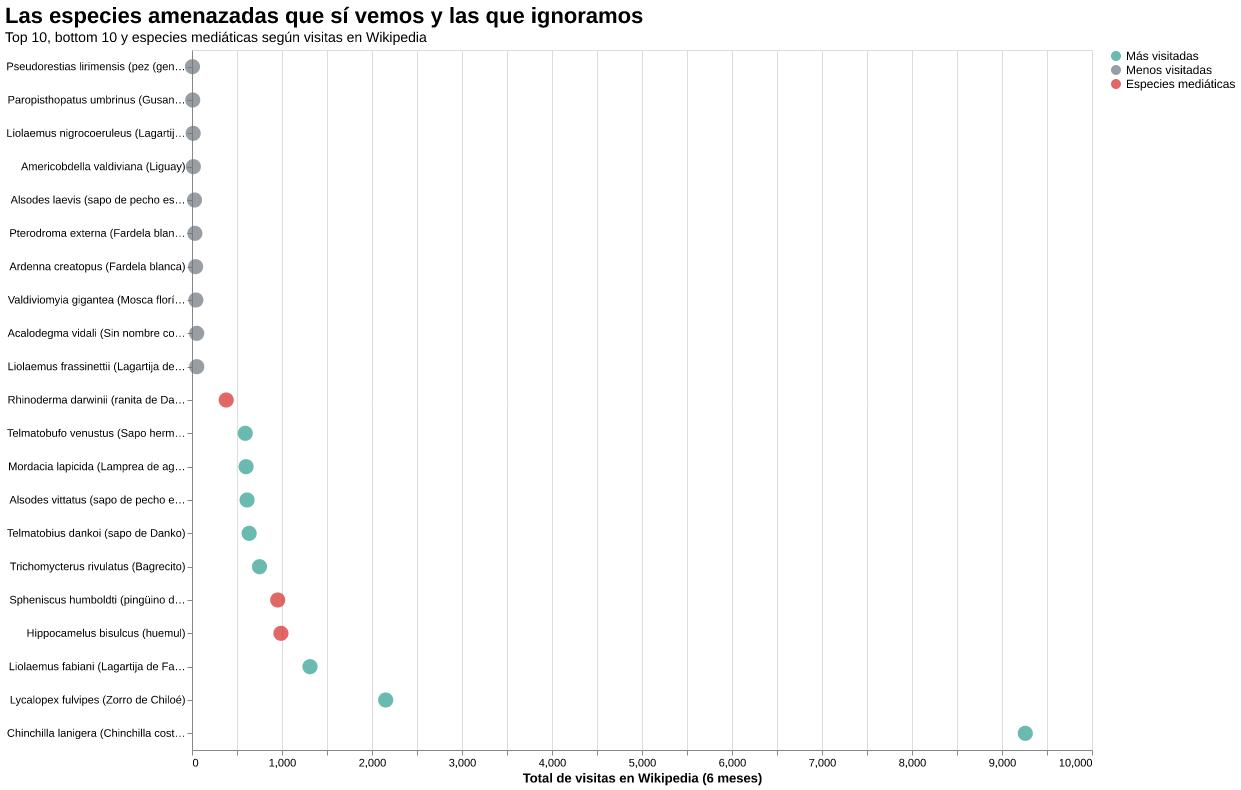
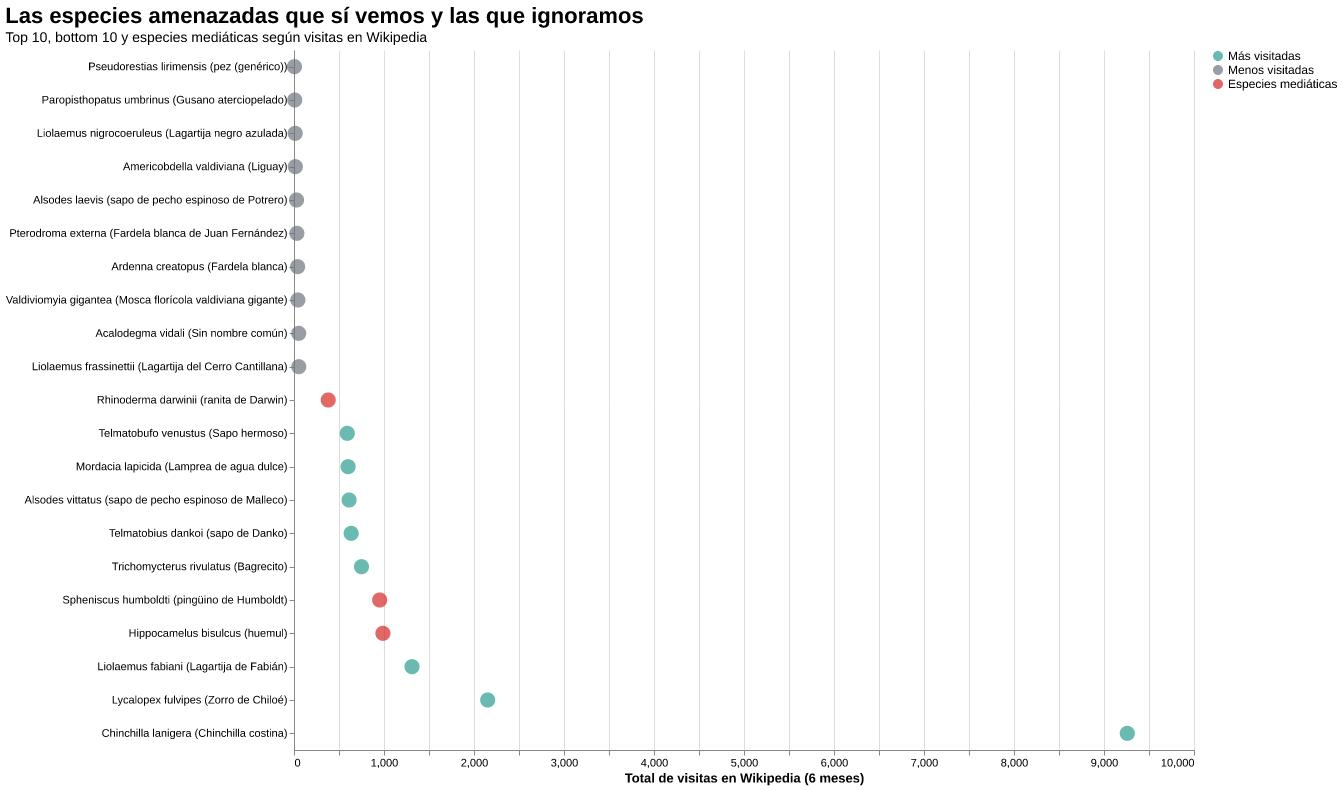
up02

diff --git a/Entrega  03/Bravo_Virginia_especies_vistas_e_ignoradas_vis_02/Visualización/vis_02.html b/Entrega  03/Bravo_Virginia_especies_vistas_e_ignoradas_vis_02/Visualización/vis_02.html
@@ -21,7 +21,7 @@
   <div id="vis"></div>
   <script>
     (function(vegaEmbed) {
-      var spec = {"config": {"view": {"continuousWidth": 300, "continuousHeight": 300}, "axis": {"labelFontSize": 11, "titleFontSize": 13}, "legend": {"labelFontSize": 12, "titleFontSize": 13}, "title": {"anchor": "start", "fontSize": 22, "subtitleFontSize": 14}}, "data": {"name": "data-77d739e10a1b5b13286e51d5c244d3fd"}, "mark": {"type": "circle", "size": 230}, "encoding": {"color": {"field": "Grupo", "scale": {"domain": ["M\u00e1s visitadas", "Menos visitadas", "Especies medi\u00e1ticas"], "range": ["#2a9d8f", "#6c757d", "#d62828"]}, "title": "", "type": "nominal"}, "tooltip": [{"field": "Nombre Cient\u00edfico", "title": "Nombre cient\u00edfico", "type": "nominal"}, {"field": "Nombre Com\u00fan", "title": "Nombre com\u00fan", "type": "nominal"}, {"field": "Clase", "title": "Clase", "type": "nominal"}, {"field": "RCE", "title": "Categor\u00eda", "type": "nominal"}, {"field": "Total Visitas (periodo seis meses)", "title": "Visitas", "type": "quantitative"}], "x": {"field": "Total Visitas (periodo seis meses)", "title": "Total de visitas en Wikipedia (6 meses)", "type": "quantitative"}, "y": {"field": "Etiqueta", "sort": ["Pseudorestias lirimensis (pez (gen\u00e9rico))", "Paropisthopatus umbrinus (Gusano aterciopelado)", "Liolaemus nigrocoeruleus (Lagartija negro azulada)", "Americobdella valdiviana (Liguay)", "Alsodes laevis (sapo de pecho espinoso de Potrero)", "Pterodroma externa (Fardela blanca de Juan Fern\u00e1ndez)", "Ardenna creatopus (Fardela blanca)", "Valdiviomyia gigantea (Mosca flor\u00edcola valdiviana gigante)", "Acalodegma vidali (Sin nombre com\u00fan)", "Liolaemus frassinettii (Lagartija del Cerro Cantillana)", "Rhinoderma darwinii (ranita de Darwin)", "Telmatobufo venustus (Sapo hermoso)", "Mordacia lapicida (Lamprea de agua dulce)", "Alsodes vittatus (sapo de pecho espinoso de Malleco)", "Telmatobius dankoi (sapo de Danko)", "Trichomycterus rivulatus (Bagrecito)", "Spheniscus humboldti (ping\u00fcino de Humboldt)", "Hippocamelus bisulcus (huemul)", "Liolaemus fabiani (Lagartija de Fabi\u00e1n)", "Lycalopex fulvipes (Zorro de Chilo\u00e9)", "Chinchilla lanigera (Chinchilla costina)"], "title": "", "type": "nominal"}}, "height": 700, "title": {"text": "Las especies amenazadas que s\u00ed vemos y las que ignoramos", "subtitle": ["Top 10, bottom 10 y especies medi\u00e1ticas seg\u00fan visitas en Wikipedia"]}, "width": 900, "$schema": "https://vega.github.io/schema/vega-lite/v5.20.1.json", "datasets": {"data-77d739e10a1b5b13286e51d5c244d3fd": [{"ID": 112, "Nombre Cient\u00edfico": "Chinchilla lanigera", "Nombre Com\u00fan": "Chinchilla costina", "Clase": "Mammalia", "RCE": "EN", "Total Visitas (periodo seis meses)": 9259.0, "Promedio Diario": "51", "URL Fuente": "https://pageviews.wmcloud.org/?project=en.wikipedia.org&platform=all-access&agent=user&redirects=0&start=2025-09-25&end=2026-03-25&pages=Chinchilla_lanigera ", "Etiqueta": "Chinchilla lanigera (Chinchilla costina)", "Grupo": "M\u00e1s visitadas"}, {"ID": 167, "Nombre Cient\u00edfico": "Lycalopex fulvipes", "Nombre Com\u00fan": "Zorro de Chilo\u00e9", "Clase": "Mammalia", "RCE": "EN", "Total Visitas (periodo seis meses)": 2152.0, "Promedio Diario": "12", "URL Fuente": "https://pageviews.wmcloud.org/?project=en.wikipedia.org&platform=all-access&agent=user&redirects=0&start=2025-09-25&end=2026-03-25&pages=Lycalopex_fulvipes ", "Etiqueta": "Lycalopex fulvipes (Zorro de Chilo\u00e9)", "Grupo": "M\u00e1s visitadas"}, {"ID": 154, "Nombre Cient\u00edfico": "Liolaemus fabiani", "Nombre Com\u00fan": "Lagartija de Fabi\u00e1n", "Clase": "Reptilia", "RCE": "EN", "Total Visitas (periodo seis meses)": 1311.0, "Promedio Diario": "7", "URL Fuente": "https://pageviews.wmcloud.org/?project=en.wikipedia.org&platform=all-access&agent=user&redirects=0&start=2025-09-25&end=2026-03-25&pages=Liolaemus_fabiani ", "Etiqueta": "Liolaemus fabiani (Lagartija de Fabi\u00e1n)", "Grupo": "M\u00e1s visitadas"}, {"ID": 214, "Nombre Cient\u00edfico": "Hippocamelus bisulcus", "Nombre Com\u00fan": "huemul, taruca, w\u00fcmul, g\u00fcemul, shoan, shoen, trula, hueque, ciervo sur andino", "Clase": "Mammalia", "RCE": "EN", "Total Visitas (periodo seis meses)": 988.0, "Promedio Diario": "5", "URL Fuente": "https://pageviews.wmcloud.org/?project=en.wikipedia.org&platform=all-access&agent=user&redirects=0&start=2025-09-25&end=2026-03-25&pages=Hippocamelus_bisulcus ", "Etiqueta": "Hippocamelus bisulcus (huemul)", "Grupo": "Especies medi\u00e1ticas"}, {"ID": 216, "Nombre Cient\u00edfico": "Spheniscus humboldti", "Nombre Com\u00fan": "ping\u00fcino de Humboldt, ping\u00fcino, p\u00e1jaro ni\u00f1o, patranka, Humboldt Penguin (ingl\u00e9s), Peruvian penguin (ingl\u00e9s)", "Clase": "Aves", "RCE": "EN", "Total Visitas (periodo seis meses)": 952.0, "Promedio Diario": "5", "URL Fuente": "https://pageviews.wmcloud.org/?project=en.wikipedia.org&platform=all-access&agent=user&redirects=0&start=2025-09-25&end=2026-03-25&pages=Spheniscus_humboldti ", "Etiqueta": "Spheniscus humboldti (ping\u00fcino de Humboldt)", "Grupo": "Especies medi\u00e1ticas"}, {"ID": 210, "Nombre Cient\u00edfico": "Trichomycterus rivulatus", "Nombre Com\u00fan": "Bagrecito", "Clase": "Actinopterygii", "RCE": "EN", "Total Visitas (periodo seis meses)": 750.0, "Promedio Diario": "4", "URL Fuente": "https://pageviews.wmcloud.org/?project=en.wikipedia.org&platform=all-access&agent=user&redirects=0&start=2025-09-25&end=2026-03-25&pages=Trichomycterus_rivulatus ", "Etiqueta": "Trichomycterus rivulatus (Bagrecito)", "Grupo": "M\u00e1s visitadas"}, {"ID": 62, "Nombre Cient\u00edfico": "Telmatobius dankoi", "Nombre Com\u00fan": "sapo de Danko", "Clase": "Amphibia", "RCE": "CR", "Total Visitas (periodo seis meses)": 635.0, "Promedio Diario": "3", "URL Fuente": "https://pageviews.wmcloud.org/?project=en.wikipedia.org&platform=all-access&agent=user&redirects=0&start=2025-09-25&end=2026-03-25&pages=Telmatobius_dankoi", "Etiqueta": "Telmatobius dankoi (sapo de Danko)", "Grupo": "M\u00e1s visitadas"}, {"ID": 6, "Nombre Cient\u00edfico": "Alsodes vittatus", "Nombre Com\u00fan": "sapo de pecho espinoso de Malleco", "Clase": "Amphibia", "RCE": "CR", "Total Visitas (periodo seis meses)": 612.0, "Promedio Diario": "3", "URL Fuente": "https://pageviews.wmcloud.org/?project=en.wikipedia.org&platform=all-access&agent=user&redirects=0&start=2025-09-25&end=2026-03-25&pages=Alsodes_vittatus", "Etiqueta": "Alsodes vittatus (sapo de pecho espinoso de Malleco)", "Grupo": "M\u00e1s visitadas"}, {"ID": 169, "Nombre Cient\u00edfico": "Mordacia lapicida", "Nombre Com\u00fan": "Lamprea de agua dulce", "Clase": "Cephalaspidomorphi", "RCE": "EN", "Total Visitas (periodo seis meses)": 601.0, "Promedio Diario": "3", "URL Fuente": "https://pageviews.wmcloud.org/?project=en.wikipedia.org&platform=all-access&agent=user&redirects=0&start=2025-09-25&end=2026-03-25&pages=Mordacia_lapicida ", "Etiqueta": "Mordacia lapicida (Lamprea de agua dulce)", "Grupo": "M\u00e1s visitadas"}, {"ID": 205, "Nombre Cient\u00edfico": "Telmatobufo venustus", "Nombre Com\u00fan": "Sapo hermoso", "Clase": "Amphibia", "RCE": "EN", "Total Visitas (periodo seis meses)": 592.0, "Promedio Diario": "3", "URL Fuente": "https://pageviews.wmcloud.org/?project=en.wikipedia.org&platform=all-access&agent=user&redirects=0&start=2025-09-25&end=2026-03-25&pages=Telmatobufo_venustus ", "Etiqueta": "Telmatobufo venustus (Sapo hermoso)", "Grupo": "M\u00e1s visitadas"}, {"ID": 156, "Nombre Cient\u00edfico": "Liolaemus frassinettii", "Nombre Com\u00fan": "Lagartija del Cerro Cantillana, lagarto de Frassinetti", "Clase": "Reptilia", "RCE": "EN", "Total Visitas (periodo seis meses)": 53.0, "Promedio Diario": "0", "URL Fuente": "https://pageviews.wmcloud.org/?project=en.wikipedia.org&platform=all-access&agent=user&redirects=0&start=2025-09-25&end=2026-03-25&pages=Liolaemus_frassinettii ", "Etiqueta": "Liolaemus frassinettii (Lagartija del Cerro Cantillana)", "Grupo": "Menos visitadas"}, {"ID": 71, "Nombre Cient\u00edfico": "Acalodegma vidali", "Nombre Com\u00fan": null, "Clase": "Insecta", "RCE": "EN", "Total Visitas (periodo seis meses)": 52.0, "Promedio Diario": "0", "URL Fuente": "https://pageviews.wmcloud.org/?project=en.wikipedia.org&platform=all-access&agent=user&redirects=0&start=2025-09-25&end=2026-03-25&pages=Acalodegma_vidali ", "Etiqueta": "Acalodegma vidali (Sin nombre com\u00fan)", "Grupo": "Menos visitadas"}, {"ID": 212, "Nombre Cient\u00edfico": "Valdiviomyia gigantea", "Nombre Com\u00fan": "Mosca flor\u00edcola valdiviana gigante", "Clase": "Insecta", "RCE": "EN", "Total Visitas (periodo seis meses)": 43.0, "Promedio Diario": "0", "URL Fuente": "https://pageviews.wmcloud.org/?project=en.wikipedia.org&platform=all-access&agent=user&redirects=0&start=2025-09-25&end=2026-03-25&pages=Valdiviomyia_gigantea ", "Etiqueta": "Valdiviomyia gigantea (Mosca flor\u00edcola valdiviana gigante)", "Grupo": "Menos visitadas"}, {"ID": 100, "Nombre Cient\u00edfico": "Ardenna creatopus", "Nombre Com\u00fan": "Fardela blanca", "Clase": "Aves", "RCE": "EN", "Total Visitas (periodo seis meses)": 40.0, "Promedio Diario": "0", "URL Fuente": "https://pageviews.wmcloud.org/?project=en.wikipedia.org&platform=all-access&agent=user&redirects=0&start=2025-09-25&end=2026-03-25&pages=Ardenna_creatopus ", "Etiqueta": "Ardenna creatopus (Fardela blanca)", "Grupo": "Menos visitadas"}, {"ID": 193, "Nombre Cient\u00edfico": "Pterodroma externa", "Nombre Com\u00fan": "Fardela blanca de Juan Fern\u00e1ndez, petrel de Juan Fern\u00e1ndez", "Clase": "Aves", "RCE": "EN", "Total Visitas (periodo seis meses)": 32.0, "Promedio Diario": "0", "URL Fuente": "https://pageviews.wmcloud.org/?project=en.wikipedia.org&platform=all-access&agent=user&redirects=0&start=2025-09-25&end=2026-03-25&pages=Pterodroma_externa ", "Etiqueta": "Pterodroma externa (Fardela blanca de Juan Fern\u00e1ndez)", "Grupo": "Menos visitadas"}, {"ID": 4, "Nombre Cient\u00edfico": "Alsodes laevis", "Nombre Com\u00fan": "sapo de pecho espinoso de Potrero", "Clase": "Amphibia", "RCE": "CR", "Total Visitas (periodo seis meses)": 28.0, "Promedio Diario": "0", "URL Fuente": "https://pageviews.wmcloud.org/?project=en.wikipedia.org&platform=all-access&agent=user&redirects=0&start=2025-09-25&end=2026-03-25&pages=Alsodes_laevis", "Etiqueta": "Alsodes laevis (sapo de pecho espinoso de Potrero)", "Grupo": "Menos visitadas"}, {"ID": 87, "Nombre Cient\u00edfico": "Americobdella valdiviana", "Nombre Com\u00fan": "Liguay, sanguijuela gigante valdiviana", "Clase": "Clitellata", "RCE": "EN", "Total Visitas (periodo seis meses)": 15.0, "Promedio Diario": "0", "URL Fuente": "https://pageviews.wmcloud.org/?project=en.wikipedia.org&platform=all-access&agent=user&redirects=0&start=2025-09-25&end=2026-03-25&pages=Americobdella_valdiviana ", "Etiqueta": "Americobdella valdiviana (Liguay)", "Grupo": "Menos visitadas"}, {"ID": 160, "Nombre Cient\u00edfico": "Liolaemus nigrocoeruleus", "Nombre Com\u00fan": "Lagartija negro azulada, Black Bluish Lizard (Ingl\u00e9s)", "Clase": "Reptilia", "RCE": "EN", "Total Visitas (periodo seis meses)": 13.0, "Promedio Diario": "0", "URL Fuente": "https://pageviews.wmcloud.org/?project=en.wikipedia.org&platform=all-access&agent=user&redirects=0&start=2025-09-25&end=2026-03-25&pages=Liolaemus_nigrocoeruleus ", "Etiqueta": "Liolaemus nigrocoeruleus (Lagartija negro azulada)", "Grupo": "Menos visitadas"}, {"ID": 181, "Nombre Cient\u00edfico": "Paropisthopatus umbrinus", "Nombre Com\u00fan": "Gusano aterciopelado, onic\u00f3foro (gen\u00e9rico)", "Clase": "Udeonycophora", "RCE": "EN", "Total Visitas (periodo seis meses)": 8.0, "Promedio Diario": "0", "URL Fuente": "https://pageviews.wmcloud.org/?project=en.wikipedia.org&platform=all-access&agent=user&redirects=0&start=2025-09-25&end=2026-03-25&pages=Paropisthopatus_umbrinus ", "Etiqueta": "Paropisthopatus umbrinus (Gusano aterciopelado)", "Grupo": "Menos visitadas"}, {"ID": 46, "Nombre Cient\u00edfico": "Pseudorestias lirimensis", "Nombre Com\u00fan": "pez (gen\u00e9rico)", "Clase": "Actinopterygii", "RCE": "CR", "Total Visitas (periodo seis meses)": 5.0, "Promedio Diario": "0", "URL Fuente": "https://pageviews.wmcloud.org/?project=en.wikipedia.org&platform=all-access&agent=user&redirects=0&start=2025-09-25&end=2026-03-25&pages=Pseudorestias_lirimensis", "Etiqueta": "Pseudorestias lirimensis (pez (gen\u00e9rico))", "Grupo": "Menos visitadas"}, {"ID": 215, "Nombre Cient\u00edfico": "Rhinoderma darwinii", "Nombre Com\u00fan": "ranita de Darwin", "Clase": "Amphibia", "RCE": "EN", "Total Visitas (periodo seis meses)": 380.0, "Promedio Diario": "2", "URL Fuente": "https://pageviews.wmcloud.org/?project=en.wikipedia.org&platform=all-access&agent=user&redirects=0&start=2025-09-25&end=2026-03-25&pages=Rhinoderma_darwinii ", "Etiqueta": "Rhinoderma darwinii (ranita de Darwin)", "Grupo": "Especies medi\u00e1ticas"}]}};
+      var spec = {"config": {"view": {"continuousWidth": 300, "continuousHeight": 300, "stroke": null}, "axis": {"labelFontSize": 11, "titleFontSize": 13}, "legend": {"labelFontSize": 12, "titleFontSize": 13}, "title": {"anchor": "start", "fontSize": 22, "subtitleFontSize": 14}}, "data": {"name": "data-77d739e10a1b5b13286e51d5c244d3fd"}, "mark": {"type": "circle", "size": 230}, "encoding": {"color": {"field": "Grupo", "scale": {"domain": ["M\u00e1s visitadas", "Menos visitadas", "Especies medi\u00e1ticas"], "range": ["#2a9d8f", "#6c757d", "#d62828"]}, "title": "", "type": "nominal"}, "tooltip": [{"field": "Nombre Cient\u00edfico", "title": "Nombre cient\u00edfico", "type": "nominal"}, {"field": "Nombre Com\u00fan", "title": "Nombre com\u00fan", "type": "nominal"}, {"field": "Clase", "title": "Clase", "type": "nominal"}, {"field": "RCE", "title": "Categor\u00eda", "type": "nominal"}, {"field": "Total Visitas (periodo seis meses)", "title": "Visitas", "type": "quantitative"}], "x": {"field": "Total Visitas (periodo seis meses)", "title": "Total de visitas en Wikipedia (6 meses)", "type": "quantitative"}, "y": {"axis": {"labelLimit": 500}, "field": "Etiqueta", "sort": ["Pseudorestias lirimensis (pez (gen\u00e9rico))", "Paropisthopatus umbrinus (Gusano aterciopelado)", "Liolaemus nigrocoeruleus (Lagartija negro azulada)", "Americobdella valdiviana (Liguay)", "Alsodes laevis (sapo de pecho espinoso de Potrero)", "Pterodroma externa (Fardela blanca de Juan Fern\u00e1ndez)", "Ardenna creatopus (Fardela blanca)", "Valdiviomyia gigantea (Mosca flor\u00edcola valdiviana gigante)", "Acalodegma vidali (Sin nombre com\u00fan)", "Liolaemus frassinettii (Lagartija del Cerro Cantillana)", "Rhinoderma darwinii (ranita de Darwin)", "Telmatobufo venustus (Sapo hermoso)", "Mordacia lapicida (Lamprea de agua dulce)", "Alsodes vittatus (sapo de pecho espinoso de Malleco)", "Telmatobius dankoi (sapo de Danko)", "Trichomycterus rivulatus (Bagrecito)", "Spheniscus humboldti (ping\u00fcino de Humboldt)", "Hippocamelus bisulcus (huemul)", "Liolaemus fabiani (Lagartija de Fabi\u00e1n)", "Lycalopex fulvipes (Zorro de Chilo\u00e9)", "Chinchilla lanigera (Chinchilla costina)"], "title": "", "type": "nominal"}}, "height": 700, "title": {"text": "Las especies amenazadas que s\u00ed vemos y las que ignoramos", "subtitle": ["Top 10, bottom 10 y especies medi\u00e1ticas seg\u00fan visitas en Wikipedia"]}, "width": 900, "$schema": "https://vega.github.io/schema/vega-lite/v5.20.1.json", "datasets": {"data-77d739e10a1b5b13286e51d5c244d3fd": [{"ID": 112, "Nombre Cient\u00edfico": "Chinchilla lanigera", "Nombre Com\u00fan": "Chinchilla costina", "Clase": "Mammalia", "RCE": "EN", "Total Visitas (periodo seis meses)": 9259.0, "Promedio Diario": "51", "URL Fuente": "https://pageviews.wmcloud.org/?project=en.wikipedia.org&platform=all-access&agent=user&redirects=0&start=2025-09-25&end=2026-03-25&pages=Chinchilla_lanigera ", "Etiqueta": "Chinchilla lanigera (Chinchilla costina)", "Grupo": "M\u00e1s visitadas"}, {"ID": 167, "Nombre Cient\u00edfico": "Lycalopex fulvipes", "Nombre Com\u00fan": "Zorro de Chilo\u00e9", "Clase": "Mammalia", "RCE": "EN", "Total Visitas (periodo seis meses)": 2152.0, "Promedio Diario": "12", "URL Fuente": "https://pageviews.wmcloud.org/?project=en.wikipedia.org&platform=all-access&agent=user&redirects=0&start=2025-09-25&end=2026-03-25&pages=Lycalopex_fulvipes ", "Etiqueta": "Lycalopex fulvipes (Zorro de Chilo\u00e9)", "Grupo": "M\u00e1s visitadas"}, {"ID": 154, "Nombre Cient\u00edfico": "Liolaemus fabiani", "Nombre Com\u00fan": "Lagartija de Fabi\u00e1n", "Clase": "Reptilia", "RCE": "EN", "Total Visitas (periodo seis meses)": 1311.0, "Promedio Diario": "7", "URL Fuente": "https://pageviews.wmcloud.org/?project=en.wikipedia.org&platform=all-access&agent=user&redirects=0&start=2025-09-25&end=2026-03-25&pages=Liolaemus_fabiani ", "Etiqueta": "Liolaemus fabiani (Lagartija de Fabi\u00e1n)", "Grupo": "M\u00e1s visitadas"}, {"ID": 214, "Nombre Cient\u00edfico": "Hippocamelus bisulcus", "Nombre Com\u00fan": "huemul, taruca, w\u00fcmul, g\u00fcemul, shoan, shoen, trula, hueque, ciervo sur andino", "Clase": "Mammalia", "RCE": "EN", "Total Visitas (periodo seis meses)": 988.0, "Promedio Diario": "5", "URL Fuente": "https://pageviews.wmcloud.org/?project=en.wikipedia.org&platform=all-access&agent=user&redirects=0&start=2025-09-25&end=2026-03-25&pages=Hippocamelus_bisulcus ", "Etiqueta": "Hippocamelus bisulcus (huemul)", "Grupo": "Especies medi\u00e1ticas"}, {"ID": 216, "Nombre Cient\u00edfico": "Spheniscus humboldti", "Nombre Com\u00fan": "ping\u00fcino de Humboldt, ping\u00fcino, p\u00e1jaro ni\u00f1o, patranka, Humboldt Penguin (ingl\u00e9s), Peruvian penguin (ingl\u00e9s)", "Clase": "Aves", "RCE": "EN", "Total Visitas (periodo seis meses)": 952.0, "Promedio Diario": "5", "URL Fuente": "https://pageviews.wmcloud.org/?project=en.wikipedia.org&platform=all-access&agent=user&redirects=0&start=2025-09-25&end=2026-03-25&pages=Spheniscus_humboldti ", "Etiqueta": "Spheniscus humboldti (ping\u00fcino de Humboldt)", "Grupo": "Especies medi\u00e1ticas"}, {"ID": 210, "Nombre Cient\u00edfico": "Trichomycterus rivulatus", "Nombre Com\u00fan": "Bagrecito", "Clase": "Actinopterygii", "RCE": "EN", "Total Visitas (periodo seis meses)": 750.0, "Promedio Diario": "4", "URL Fuente": "https://pageviews.wmcloud.org/?project=en.wikipedia.org&platform=all-access&agent=user&redirects=0&start=2025-09-25&end=2026-03-25&pages=Trichomycterus_rivulatus ", "Etiqueta": "Trichomycterus rivulatus (Bagrecito)", "Grupo": "M\u00e1s visitadas"}, {"ID": 62, "Nombre Cient\u00edfico": "Telmatobius dankoi", "Nombre Com\u00fan": "sapo de Danko", "Clase": "Amphibia", "RCE": "CR", "Total Visitas (periodo seis meses)": 635.0, "Promedio Diario": "3", "URL Fuente": "https://pageviews.wmcloud.org/?project=en.wikipedia.org&platform=all-access&agent=user&redirects=0&start=2025-09-25&end=2026-03-25&pages=Telmatobius_dankoi", "Etiqueta": "Telmatobius dankoi (sapo de Danko)", "Grupo": "M\u00e1s visitadas"}, {"ID": 6, "Nombre Cient\u00edfico": "Alsodes vittatus", "Nombre Com\u00fan": "sapo de pecho espinoso de Malleco", "Clase": "Amphibia", "RCE": "CR", "Total Visitas (periodo seis meses)": 612.0, "Promedio Diario": "3", "URL Fuente": "https://pageviews.wmcloud.org/?project=en.wikipedia.org&platform=all-access&agent=user&redirects=0&start=2025-09-25&end=2026-03-25&pages=Alsodes_vittatus", "Etiqueta": "Alsodes vittatus (sapo de pecho espinoso de Malleco)", "Grupo": "M\u00e1s visitadas"}, {"ID": 169, "Nombre Cient\u00edfico": "Mordacia lapicida", "Nombre Com\u00fan": "Lamprea de agua dulce", "Clase": "Cephalaspidomorphi", "RCE": "EN", "Total Visitas (periodo seis meses)": 601.0, "Promedio Diario": "3", "URL Fuente": "https://pageviews.wmcloud.org/?project=en.wikipedia.org&platform=all-access&agent=user&redirects=0&start=2025-09-25&end=2026-03-25&pages=Mordacia_lapicida ", "Etiqueta": "Mordacia lapicida (Lamprea de agua dulce)", "Grupo": "M\u00e1s visitadas"}, {"ID": 205, "Nombre Cient\u00edfico": "Telmatobufo venustus", "Nombre Com\u00fan": "Sapo hermoso", "Clase": "Amphibia", "RCE": "EN", "Total Visitas (periodo seis meses)": 592.0, "Promedio Diario": "3", "URL Fuente": "https://pageviews.wmcloud.org/?project=en.wikipedia.org&platform=all-access&agent=user&redirects=0&start=2025-09-25&end=2026-03-25&pages=Telmatobufo_venustus ", "Etiqueta": "Telmatobufo venustus (Sapo hermoso)", "Grupo": "M\u00e1s visitadas"}, {"ID": 156, "Nombre Cient\u00edfico": "Liolaemus frassinettii", "Nombre Com\u00fan": "Lagartija del Cerro Cantillana, lagarto de Frassinetti", "Clase": "Reptilia", "RCE": "EN", "Total Visitas (periodo seis meses)": 53.0, "Promedio Diario": "0", "URL Fuente": "https://pageviews.wmcloud.org/?project=en.wikipedia.org&platform=all-access&agent=user&redirects=0&start=2025-09-25&end=2026-03-25&pages=Liolaemus_frassinettii ", "Etiqueta": "Liolaemus frassinettii (Lagartija del Cerro Cantillana)", "Grupo": "Menos visitadas"}, {"ID": 71, "Nombre Cient\u00edfico": "Acalodegma vidali", "Nombre Com\u00fan": null, "Clase": "Insecta", "RCE": "EN", "Total Visitas (periodo seis meses)": 52.0, "Promedio Diario": "0", "URL Fuente": "https://pageviews.wmcloud.org/?project=en.wikipedia.org&platform=all-access&agent=user&redirects=0&start=2025-09-25&end=2026-03-25&pages=Acalodegma_vidali ", "Etiqueta": "Acalodegma vidali (Sin nombre com\u00fan)", "Grupo": "Menos visitadas"}, {"ID": 212, "Nombre Cient\u00edfico": "Valdiviomyia gigantea", "Nombre Com\u00fan": "Mosca flor\u00edcola valdiviana gigante", "Clase": "Insecta", "RCE": "EN", "Total Visitas (periodo seis meses)": 43.0, "Promedio Diario": "0", "URL Fuente": "https://pageviews.wmcloud.org/?project=en.wikipedia.org&platform=all-access&agent=user&redirects=0&start=2025-09-25&end=2026-03-25&pages=Valdiviomyia_gigantea ", "Etiqueta": "Valdiviomyia gigantea (Mosca flor\u00edcola valdiviana gigante)", "Grupo": "Menos visitadas"}, {"ID": 100, "Nombre Cient\u00edfico": "Ardenna creatopus", "Nombre Com\u00fan": "Fardela blanca", "Clase": "Aves", "RCE": "EN", "Total Visitas (periodo seis meses)": 40.0, "Promedio Diario": "0", "URL Fuente": "https://pageviews.wmcloud.org/?project=en.wikipedia.org&platform=all-access&agent=user&redirects=0&start=2025-09-25&end=2026-03-25&pages=Ardenna_creatopus ", "Etiqueta": "Ardenna creatopus (Fardela blanca)", "Grupo": "Menos visitadas"}, {"ID": 193, "Nombre Cient\u00edfico": "Pterodroma externa", "Nombre Com\u00fan": "Fardela blanca de Juan Fern\u00e1ndez, petrel de Juan Fern\u00e1ndez", "Clase": "Aves", "RCE": "EN", "Total Visitas (periodo seis meses)": 32.0, "Promedio Diario": "0", "URL Fuente": "https://pageviews.wmcloud.org/?project=en.wikipedia.org&platform=all-access&agent=user&redirects=0&start=2025-09-25&end=2026-03-25&pages=Pterodroma_externa ", "Etiqueta": "Pterodroma externa (Fardela blanca de Juan Fern\u00e1ndez)", "Grupo": "Menos visitadas"}, {"ID": 4, "Nombre Cient\u00edfico": "Alsodes laevis", "Nombre Com\u00fan": "sapo de pecho espinoso de Potrero", "Clase": "Amphibia", "RCE": "CR", "Total Visitas (periodo seis meses)": 28.0, "Promedio Diario": "0", "URL Fuente": "https://pageviews.wmcloud.org/?project=en.wikipedia.org&platform=all-access&agent=user&redirects=0&start=2025-09-25&end=2026-03-25&pages=Alsodes_laevis", "Etiqueta": "Alsodes laevis (sapo de pecho espinoso de Potrero)", "Grupo": "Menos visitadas"}, {"ID": 87, "Nombre Cient\u00edfico": "Americobdella valdiviana", "Nombre Com\u00fan": "Liguay, sanguijuela gigante valdiviana", "Clase": "Clitellata", "RCE": "EN", "Total Visitas (periodo seis meses)": 15.0, "Promedio Diario": "0", "URL Fuente": "https://pageviews.wmcloud.org/?project=en.wikipedia.org&platform=all-access&agent=user&redirects=0&start=2025-09-25&end=2026-03-25&pages=Americobdella_valdiviana ", "Etiqueta": "Americobdella valdiviana (Liguay)", "Grupo": "Menos visitadas"}, {"ID": 160, "Nombre Cient\u00edfico": "Liolaemus nigrocoeruleus", "Nombre Com\u00fan": "Lagartija negro azulada, Black Bluish Lizard (Ingl\u00e9s)", "Clase": "Reptilia", "RCE": "EN", "Total Visitas (periodo seis meses)": 13.0, "Promedio Diario": "0", "URL Fuente": "https://pageviews.wmcloud.org/?project=en.wikipedia.org&platform=all-access&agent=user&redirects=0&start=2025-09-25&end=2026-03-25&pages=Liolaemus_nigrocoeruleus ", "Etiqueta": "Liolaemus nigrocoeruleus (Lagartija negro azulada)", "Grupo": "Menos visitadas"}, {"ID": 181, "Nombre Cient\u00edfico": "Paropisthopatus umbrinus", "Nombre Com\u00fan": "Gusano aterciopelado, onic\u00f3foro (gen\u00e9rico)", "Clase": "Udeonycophora", "RCE": "EN", "Total Visitas (periodo seis meses)": 8.0, "Promedio Diario": "0", "URL Fuente": "https://pageviews.wmcloud.org/?project=en.wikipedia.org&platform=all-access&agent=user&redirects=0&start=2025-09-25&end=2026-03-25&pages=Paropisthopatus_umbrinus ", "Etiqueta": "Paropisthopatus umbrinus (Gusano aterciopelado)", "Grupo": "Menos visitadas"}, {"ID": 46, "Nombre Cient\u00edfico": "Pseudorestias lirimensis", "Nombre Com\u00fan": "pez (gen\u00e9rico)", "Clase": "Actinopterygii", "RCE": "CR", "Total Visitas (periodo seis meses)": 5.0, "Promedio Diario": "0", "URL Fuente": "https://pageviews.wmcloud.org/?project=en.wikipedia.org&platform=all-access&agent=user&redirects=0&start=2025-09-25&end=2026-03-25&pages=Pseudorestias_lirimensis", "Etiqueta": "Pseudorestias lirimensis (pez (gen\u00e9rico))", "Grupo": "Menos visitadas"}, {"ID": 215, "Nombre Cient\u00edfico": "Rhinoderma darwinii", "Nombre Com\u00fan": "ranita de Darwin", "Clase": "Amphibia", "RCE": "EN", "Total Visitas (periodo seis meses)": 380.0, "Promedio Diario": "2", "URL Fuente": "https://pageviews.wmcloud.org/?project=en.wikipedia.org&platform=all-access&agent=user&redirects=0&start=2025-09-25&end=2026-03-25&pages=Rhinoderma_darwinii ", "Etiqueta": "Rhinoderma darwinii (ranita de Darwin)", "Grupo": "Especies medi\u00e1ticas"}]}};
       var embedOpt = {"mode": "vega-lite"};
 
       function showError(el, error){